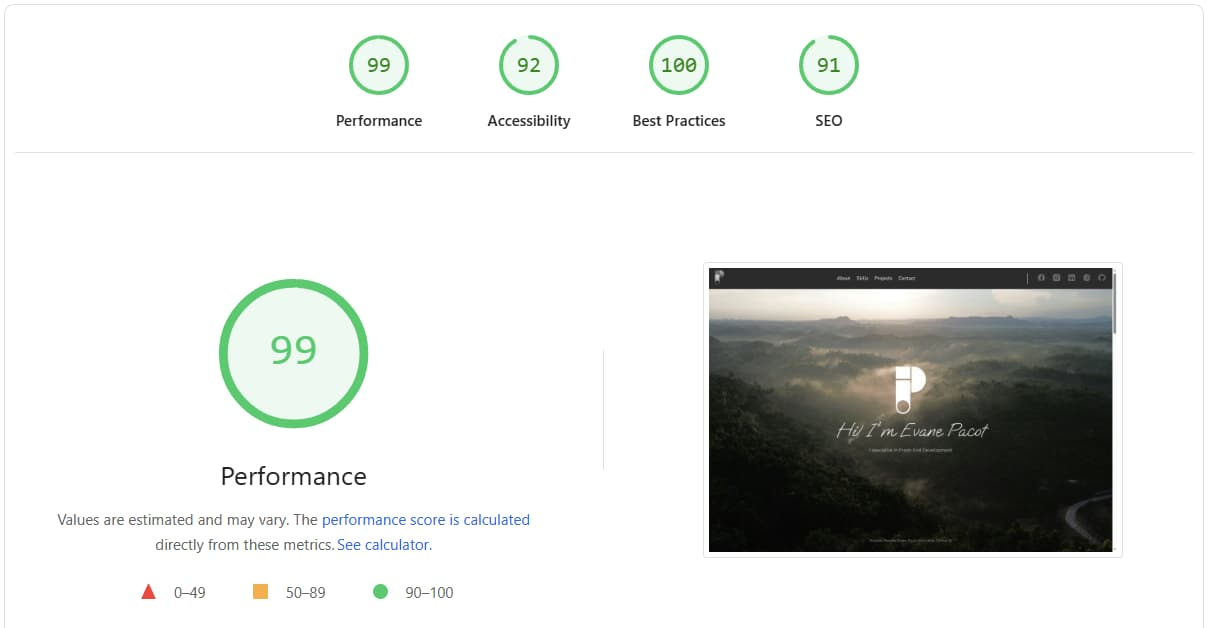
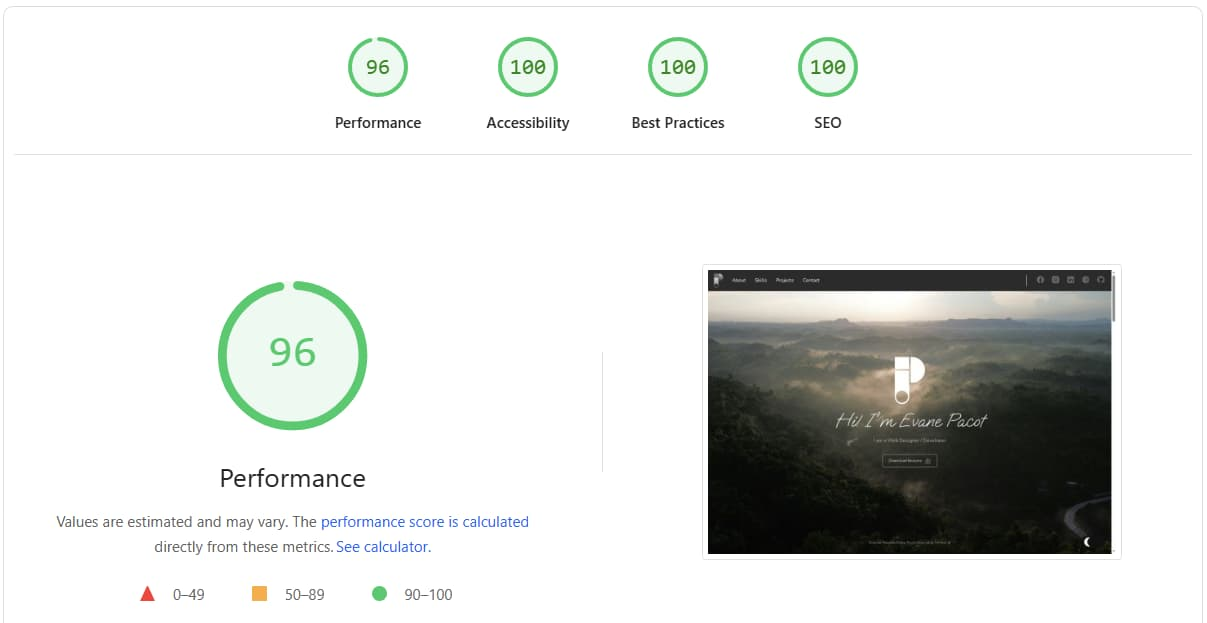
60th Commit (Update Insights Section)

diff --git a/src/components/insight/insight.jsx b/src/components/insight/insight.jsx
@@ -52,7 +52,7 @@ function Insight () {
     return (
         <div className={`insight-section ${darkMode? 'light':'dark'}`} ref={ref}>
             <div className={`insight-details ${isVisible? 'animate':''}`}>
-                <p>My personal website portfolio has achieved a performance score of <span>90</span> on mobile and <span>99</span> on desktop as evaluated by <Google /> PageSpeed Insights, reflecting a high level of optimization and responsiveness across platforms.</p>
+                <p>My personal website portfolio has achieved a performance score of <span style={{color:"#eebf5bff"}}>76</span> on mobile and <span style={{color:"#8BC34A"}}>96</span> on desktop as evaluated by <Google /> PageSpeed Insights, reflecting a high level of optimization and responsiveness across different platforms.</p>
                 <div className={`insight-tags ${isVisible? 'animate':''}`}>
                     <div className='multiple-devices'>
                         <img src={MultipleDevice} alt='Multiple Devices Icon' loading='lazy'/>

diff --git a/src/components/insight/insight.scss b/src/components/insight/insight.scss
@@ -38,7 +38,6 @@ $lightContainerColor: #E7E8EF;
 }
 
 .insight-details span {
-    color: #8BC34A;
     font-weight: bold;
 }
 
